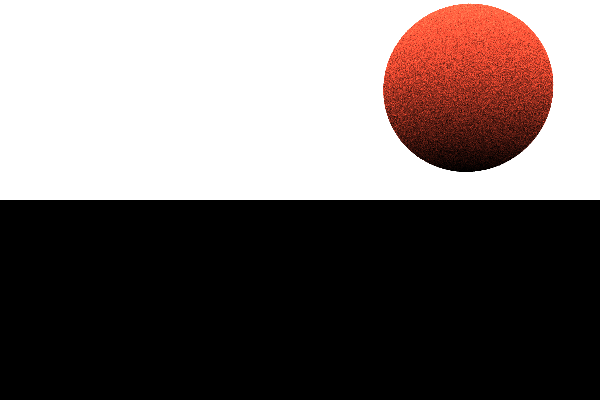
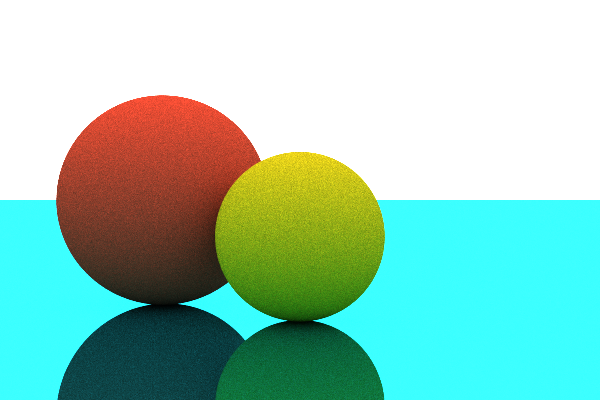
Ray tracer properly functioning with reflection and shades.

diff --git a/src/SphereTest.kt b/src/SphereTest.kt
@@ -3,7 +3,7 @@ import org.junit.Assert.*
 class SphereTest {
 
     @org.junit.Test fun testSphereCollision () {
-        val spherePos: Sphere = Sphere(Point(0.0f, 50.0f, 0.0f), 20.0, Material())
+        val spherePos: Sphere = Sphere(Point(0.0f, 50.0f, 0.0f), 20f, Material())
         val rayY: Vector = !Vector(Point(0.0f,1.0f,0.0f))
         val rayX: Vector = !Vector(Point(1.0f,0.0f,0.0f))
         val rayZ: Vector = !Vector(Point(0.0f,0.0f,1.0f))
@@ -14,7 +14,7 @@ class SphereTest {
         assertTrue(testCollPosY)
         assertTrue(!testCollPosX && !testCollPosZ)
 
-        val sphereNeg: Sphere = Sphere(Point(0.0f, -50.0f, 0.0f), 20.0, Material())
+        val sphereNeg: Sphere = Sphere(Point(0.0f, -50.0f, 0.0f), 20f, Material())
         val testCollNegY = sphereNeg.checkCollision(cameraPos, rayY)
         val testCollNegX = sphereNeg.checkCollision(cameraPos, rayX)
         val testCollNegZ = sphereNeg.checkCollision(cameraPos, rayZ)
@@ -22,7 +22,7 @@ class SphereTest {
     }
 
     @org.junit.Test fun testCollisionPoint() {
-        val spherePos: Sphere = Sphere(Point(0.0f, 50.0f, 0.0f), 20.0, Material())
+        val spherePos: Sphere = Sphere(Point(0.0f, 50.0f, 0.0f), 20f, Material())
         val rayY: Vector = !Vector(Point(0.0f,1.0f,0.0f))
         val cameraPos: Point = Point(0f,0f,0f)
         spherePos.checkCollision(cameraPos, rayY)
@@ -47,7 +47,7 @@ class SphereTest {
     }
 
     @org.junit.Test fun testNormal() {
-        val spherePos: Sphere = Sphere(Point(0.0f, 50.0f, 0.0f), 20.0, Material())
+        val spherePos: Sphere = Sphere(Point(0.0f, 50.0f, 0.0f), 20f, Material())
         val rayY: Vector = !Vector(Point(0.0f,1.0f,0.0f))
         val cameraPos: Point = Point(0f,0f,0f)
         spherePos.checkCollision(cameraPos, rayY)

diff --git a/src/Sphere.kt b/src/Sphere.kt
@@ -1,6 +1,6 @@
 import java.util.*
 
-class Sphere(val center: Point, val r: Double, val material: Material) : Objects() {
+class Sphere(val center: Point, val r: Float, val material: Material) : Objects() {
 
     var normal = Vector()
     var L = Vector()
@@ -15,6 +15,10 @@ class Sphere(val center: Point, val r: Double, val material: Material) : Objects
             return Hit(true, hitPoint, L, material)
         } else {
             this.material.lambertian = 1f
+//            println("---")
+//            println("SPHERE HitPoint: " + this.hitPoint)
+//            println("SPHERE Reflection: " + this.Refl)
+//            println("---")
             return Hit(true, hitPoint, Refl, material)
         }
     }
@@ -24,7 +28,7 @@ class Sphere(val center: Point, val r: Double, val material: Material) : Objects
         this.origin = origin
         val b: Double = Math.pow((ray * (origin - center)).toDouble(), 2.0)
         val c: Double = Math.pow(origin.getDistance(center).toDouble(), 2.0)
-        val d: Double = Math.pow(r, 2.0)
+        val d: Double = Math.pow(r.toDouble(), 2.0)
         if ((b - c + d) >= 0) {
             return computeCollision(b - c + d)
         } else {

diff --git a/src/Scene.kt b/src/Scene.kt
@@ -1,16 +1,20 @@
-import java.awt.Color
 import java.util.ArrayList
 
 class Scene {
-    val sphere: Sphere = Sphere(Point(0f, 50f, 0f), 10.0, Material(Point(0.96f, 0.30f,0.20f), 1f, 0f))
+    val sphere: Sphere = Sphere(Point(-13f, 80f, 0f), 10f, Material(Point(0.96f, 0.30f,0.20f), 1f, 0f))
+    val sphere2: Sphere = Sphere(Point(0f, 69f, -3f), 7f, Material(Point(0.9f, 0.8f,0.10f), 1f, 0f))
+    val floor: Floor = Floor(Point(0f, 0f, -10f), Vector(Point(0f,0f,1f)), Material(Point(0.1f, 0.65f,0.75f), 1f, 0.75f))
     val objects = ArrayList<Objects>()
-    val color: MyColor = MyColor(2f,2f,2f)
+    val color: MyColor = MyColor(2.8f,2.8f,2.8f)
 
     init {
         objects.add(sphere)
+        objects.add(sphere2)
+        objects.add(floor)
     }
 
     fun trace(origin: Point, ray: Vector, recursion: Int): MyColor {
+//        println("Recursion: " + recursion)
         if (recursion > 10) return color
         var hit: Hit = Hit()
         var testHit: Hit

diff --git a/src/Main.kt b/src/Main.kt
@@ -1,22 +1,7 @@
-import java.awt.Color
-
-/**
- * Created by JonathanOliveira on 18/07/17.
- */
-
 fun main (args: Array<String>) {
 
-    val lens = Lens(200.0, 600, 400)
+    val lens = Lens(200f, 600, 400, 200)
     lens.shootRays()
     lens.render()
 
 }
-
-//fun MyColor.albedo(albedo: Point): Color {
-//    return Color((this.red * albedo.x).toInt(), (this.green * albedo.y).toInt(), (this.blue * albedo.z).toInt())
-//}
-//
-//fun MyColor.lambertian(flux: Double): Color {
-////    println(flux)
-//    return Color((this.red * flux).toInt(), (this.green * flux).toInt(), (this.blue * flux).toInt())
-//}

diff --git a/src/Floor.kt b/src/Floor.kt
@@ -16,6 +16,10 @@ class Floor (val point: Point, val normalVec: Vector, val mat: Material) : Objec
             return Hit(true, hitPoint, L, material)
         } else {
             this.material.lambertian = 1f
+//            println("---")
+//            println("FLOOR HitPoint: " + this.hitPoint)
+//            println("FLOOR Reflection: " + this.Refl)
+//            println("---")
             return Hit(true, hitPoint, Refl, material)
         }
     }
